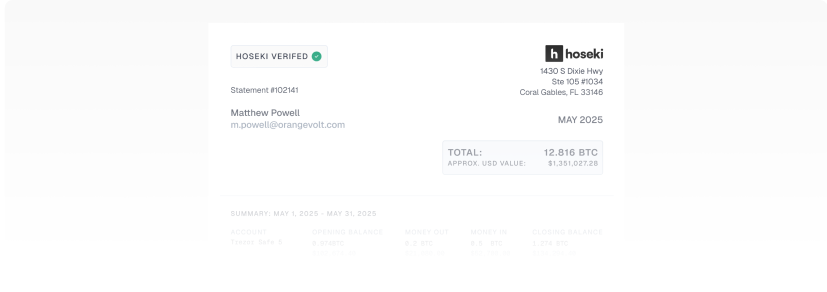
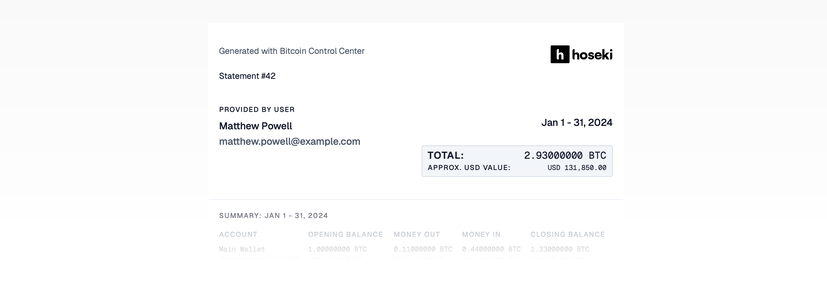
Drop the mailing address from statements and simplify statement copy
Keep only the Hoseki logo in the PDF header, retitle the details page's note to Self-custodial Bitcoin statements, and redraw the create page's preview image from the new design.

diff --git a/packages/pdf/get-statement-templates.tsx b/packages/pdf/get-statement-templates.tsx
@@ -462,21 +462,6 @@ export function getStatementDocumentTemplates(
       flexDirection: 'column',
       gap: tokens.spacing.md,
     },
-    logoAndAddress: {
-      flexDirection: 'column',
-      alignItems: 'flex-end',
-      gap: tokens.spacing.xs,
-    },
-    addressContainer: {
-      flexDirection: 'column',
-      alignItems: 'flex-end',
-    },
-    companyAddressText: {
-      fontSize: tokens.typography.fontSize.sm,
-      color: getColor('neutral.900'),
-      fontWeight: tokens.typography.fontWeights.medium,
-      textAlign: 'right',
-    },
     dateRange: {
       marginTop: tokens.spacing.md,
       fontSize: tokens.typography.fontSize.base,
@@ -1011,16 +996,8 @@ export function getStatementDocumentTemplates(
             <Text style={styles.statementNumber}>{`Statement #${proofNumber}`}</Text>
           </View>
 
-          {/* Right Column - Logo, Address, and Statement Number */}
           <View style={styles.rightColumn}>
-            <View style={styles.logoAndAddress}>
-              <Logo />
-              <View style={styles.addressContainer}>
-                <Text style={styles.companyAddressText}>1430 S Dixie Hwy</Text>
-                <Text style={styles.companyAddressText}>Ste 105 #1034</Text>
-                <Text style={styles.companyAddressText}>Coral Gables, FL 33146</Text>
-              </View>
-            </View>
+            <Logo />
           </View>
         </View>
       </View>

diff --git a/packages/pdf/preview/presets.ts b/packages/pdf/preview/presets.ts
@@ -11,7 +11,7 @@ export const sampleCustomStatement: CustomPdfStatement = {
   currency: 'BTC',
   quoteCurrency: 'USD',
   user: {
-    email: 'mathhew.powell@example.com',
+    email: 'matthew.powell@example.com',
     name: 'Matthew Powell',
     address: '456 Oak Avenue, San Francisco, CA 94102, United States',
   },
@@ -714,7 +714,7 @@ export const sampleMonthlyStatement: MonthlyPdfStatement = {
   currency: 'BTC',
   quoteCurrency: 'USD',
   user: {
-    email: 'mathhew.powell@example.com',
+    email: 'matthew.powell@example.com',
     name: 'Matthew Powell',
     address: '456 Oak Avenue, San Francisco, CA 94102, United States',
   },

diff --git a/apps/control-center/src/pages/statements/[id].tsx b/apps/control-center/src/pages/statements/[id].tsx
@@ -309,10 +309,10 @@ function LearnMore() {
     <Box bg="neutral.50" p={4} borderRadius="md">
       <HStack spacing={3}>
         <ShieldCheckIcon size={20} />
-        <Text fontWeight="medium">Your Proof is Private & Secure</Text>
+        <Text fontWeight="medium">Self-custodial Bitcoin statements</Text>
       </HStack>
       <Text ml={7} color="neutral.900">
-        This proof securely verifies your bitcoin holdings. Learn more in our{' '}
+        Learn more in our{' '}
         <Link
           href="https://help.hoseki.app/bitcoin-control-center/statements/statements-and-hoseki-verified"
           isExternal
